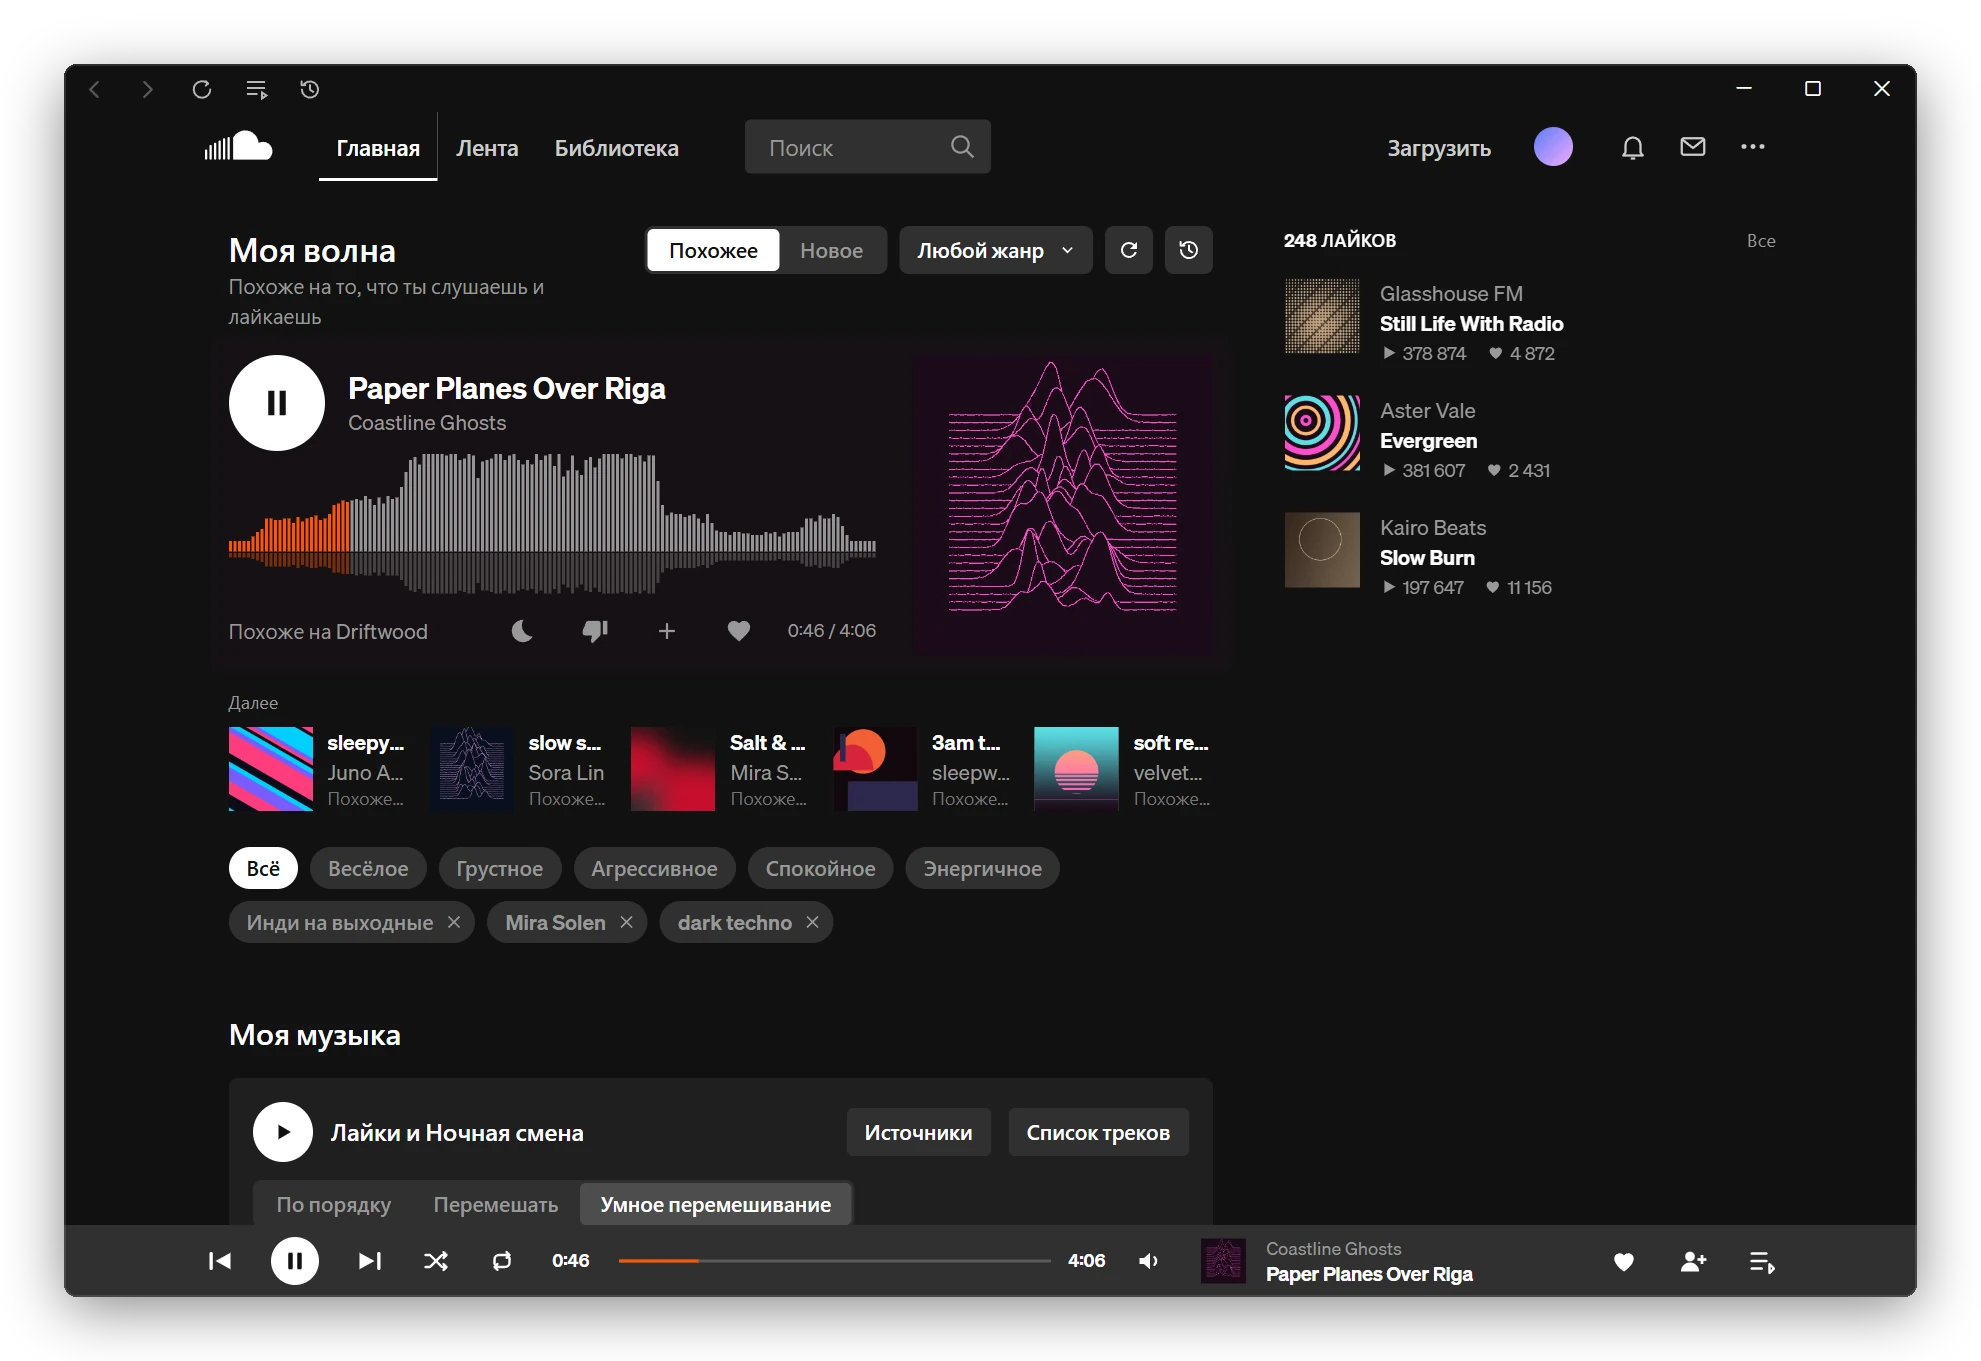
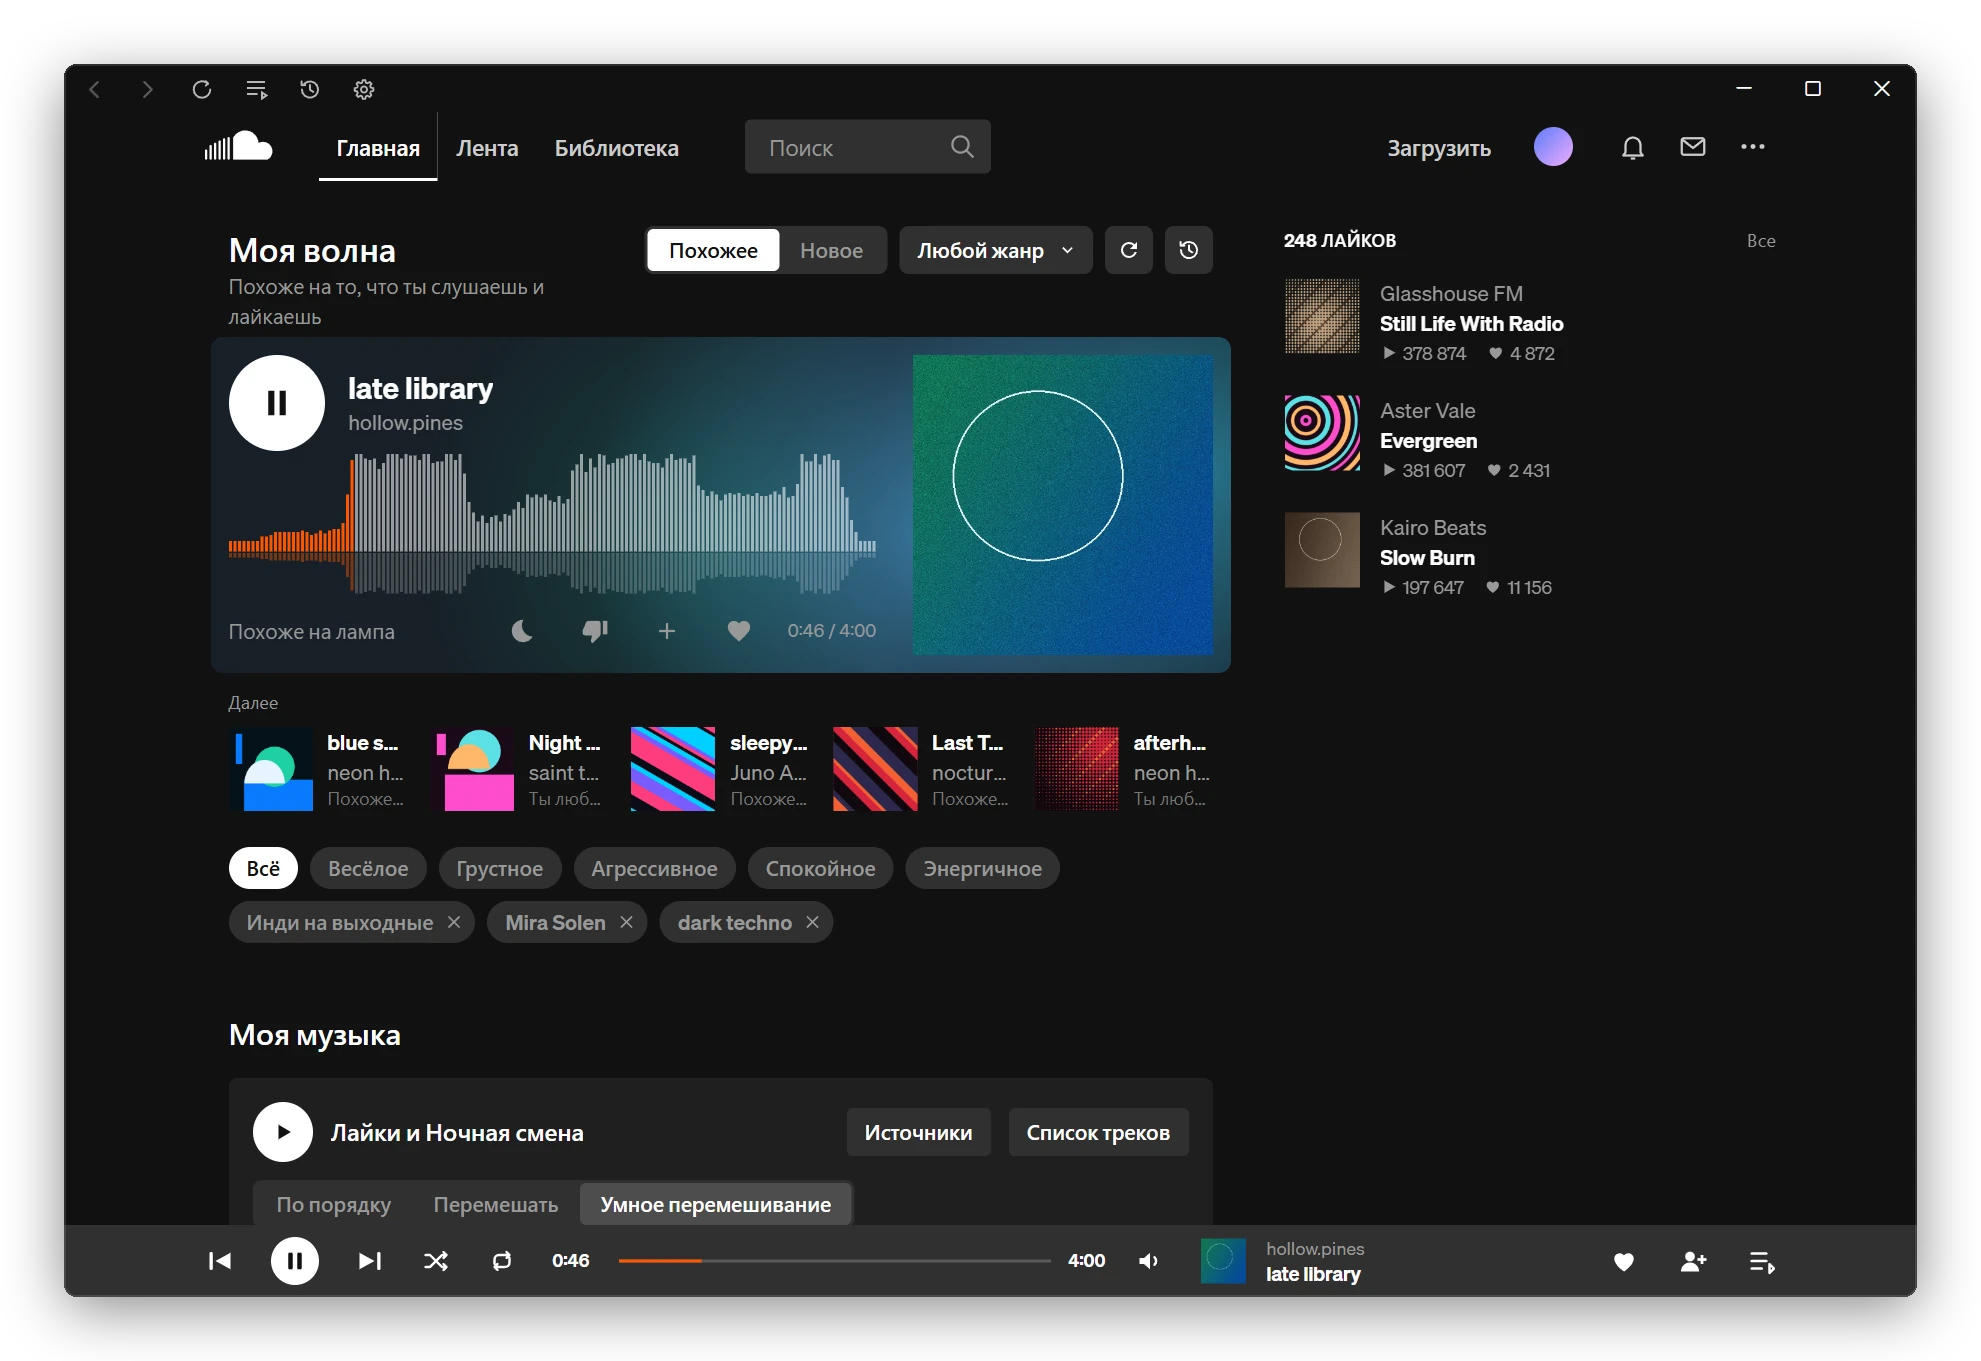
README: кадры 0.14.0 и сводка недели
- Кадры пересняты на сборке 0.14.0: свет блока волны в цветах обложки, полка с плейлистом момента, «Разведкой» и «Лайкнули твои артисты», кнопка «Сводка недели» в истории, «Разведка» в разборе волны, значок настроек в шапке, версия 0.14.0 в настройках.
- Новая картинка recap.webp: сводка недели в разделе истории.
- Подписи картинок по новым кадрам.

Changed region(s): [[0.1232, 0.2469, 0.6466, 0.4938], [0.0924, 0.5246, 0.6159, 0.6172], [0.5851, 0.8949, 0.739, 0.9566]]

diff --git a/README.md b/README.md
@@ -16,7 +16,7 @@
 
 <br>
 
-<img src="assets/readme/wave.webp" width="100%" alt="Главная клиента: играет «Моя волна» на подложке в цвет обложки, ниже очередь, пресеты настроения, закрепления и блок «Моя музыка»">
+<img src="assets/readme/wave.webp" width="100%" alt="Главная клиента: играет «Моя волна», за блоком свет в цветах обложки, ниже очередь, пресеты настроения, закрепления и блок «Моя музыка»">
 
 Это soundcloud.com в своём окне, только главная другая: вместо полок сайта твоя волна, подборки на день и пятничный радар релизов. Клиент ведёт журнал того, что ты слушаешь, по нему подбирает треки и показывает историю. Журнал лежит только у тебя на компьютере.
 
@@ -41,7 +41,7 @@
 
 Источники и порядок можно менять во время игры: текущий трек не прерывается, меняются только треки впереди. В статусе число треков, которые сыграют целиком, а отрывки Go+ и закрытое в стране идут отдельной пометкой: «377 треков, 69 недоступны».
 
-<img src="assets/readme/library.webp" width="100%" alt="Блок «Моя музыка»: играют лайки и плейлист «Ночная смена», 72 трека, открыт выбор источников со значком волны у лайков">
+<img src="assets/readme/library.webp" width="100%" alt="Блок «Моя музыка»: играют лайки и плейлист «Ночная смена», 72 трека, открыт выбор источников со значком волны у «Ночной смены»">
 
 ### Подборки на каждый день
 
@@ -57,7 +57,7 @@
 
 Нажми на карточку, и под полкой раскроется её список, даже в маленьком окне он сам встанет в поле зрения. Любой трек из него можно включить первым, а за ним пойдёт остальная подборка.
 
-<img src="assets/readme/mixes.webp" width="100%" alt="Раскрытая подборка Indie и Indie rock: список треков в две колонки, играющий подсвечен">
+<img src="assets/readme/mixes.webp" width="100%" alt="Полка подборок с плейлистом момента, «Разведкой» и раскрытой подборкой «Лайкнули твои артисты»: список треков в две колонки, играющий подсвечен">
 
 Полки сайта на главной скрыты, волна их заменяет. Вернуть любую можно в настройках: <kbd>F1</kbd> → Главная.
 
@@ -95,7 +95,7 @@
 - **Как попадает волна**: сколько треков волны ты пропускаешь в первые 30 секунд и сколько дослушиваешь, рядом со своей музыкой и прошлым периодом. Там же лайки, «Больше такого», отказы, новые артисты, пропуски по дням и разбор по подборкам, причинам подбора и месту трека в очереди.
 - **Сводка недели**: карточка с часами музыки, топом треков и артистов, любимыми жанрами и самой музыкальной частью суток. Восемь цветов на выбор, картинку можно скопировать или сохранить. Когда сводка прошлой недели готова, у кнопки истории загорается точка.
 
-<img src="assets/readme/history.webp" width="100%" alt="Страница истории: 29 часов 36 минут музыки за 30 дней, столбики по дням, любимые артисты">
+<img src="assets/readme/history.webp" width="100%" alt="Страница истории: 34 часа 41 минута музыки за 30 дней, кнопка «Сводка недели», столбики по дням, любимые артисты">
 
 <table>
   <tr>
@@ -108,7 +108,9 @@
   </tr>
 </table>
 
-<img src="assets/readme/history-wave.webp" width="100%" alt="Блок «Как попадает волна» за 30 дней: 9% пропущено до 0:30, 75% дослушано, пропуски по дням, разбор по подборкам, причинам, месту в выдаче и тому, откуда взят трек">
+<img src="assets/readme/history-wave.webp" width="100%" alt="Блок «Как попадает волна» за 30 дней: 11% пропущено до 0:30, 72% дослушано, пропуски по дням, разбор по подборкам, причинам, месту в выдаче и тому, откуда взят трек">
+
+<img src="assets/readme/recap.webp" width="100%" alt="Сводка недели: ник и аватарка, 9 часов 14 минут музыки, 191 прослушивание, треки и артисты недели, любимые жанры и части суток">
 
 Трек засчитывается с 30 секунд звука. История своя у каждого аккаунта и лежит в `%APPDATA%\soundcloud-desktop`.
 
